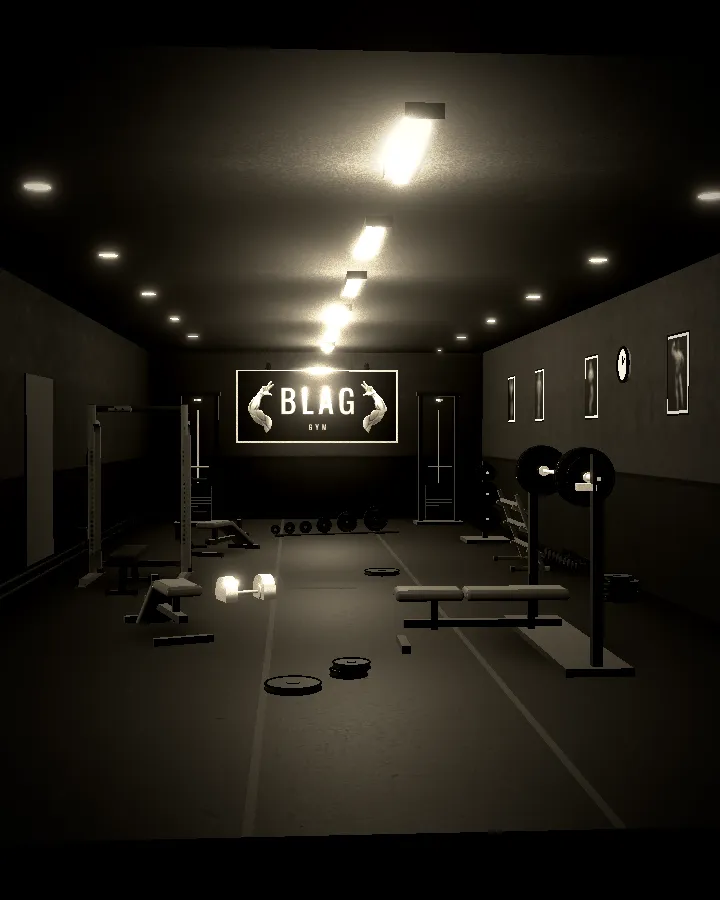
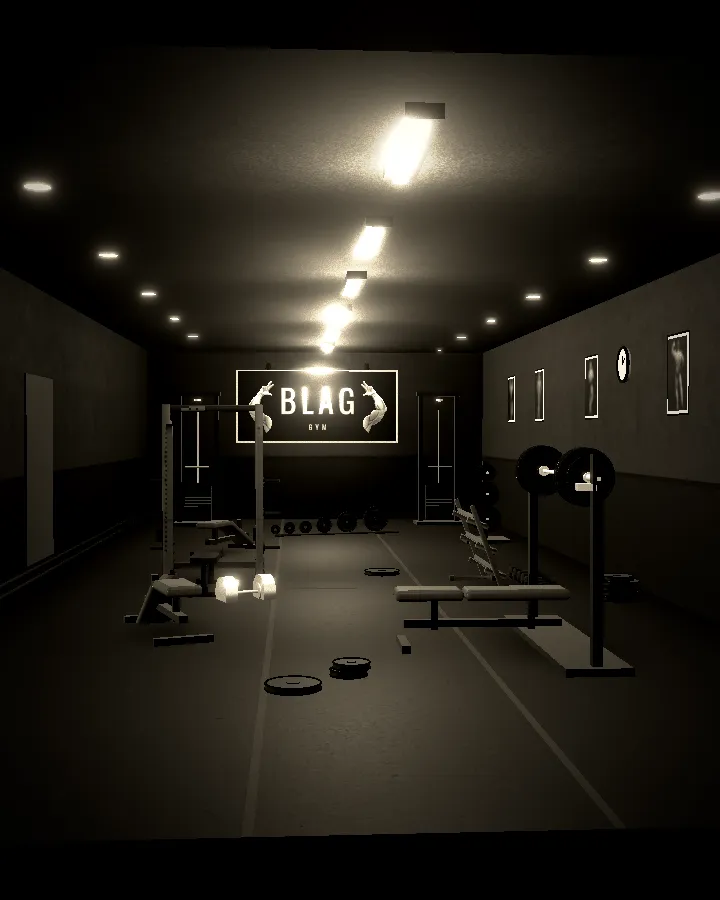
Светът: стойката и стелажът навътре — да ги хваща кадърът на телефона
На телефона (390 px) стойката за клек беше извън кадъра, а от стелажа
се виждаше само ръбът. Стойката е преместена от x −2.35 на −1.45,
стелажът — от стената (2.8, −8) пред лежанката (1.9, −6); сенките с тях.
lite-gym.webp е заснет наново.

Claude-Session: https://claude.ai/code/session_01EQMiKfBy3otTZWt7iKtyxo

diff --git a/src/svyat/Gym.jsx b/src/svyat/Gym.jsx
@@ -442,7 +442,7 @@ function PressStation({ m }) {
 
 const TEX = ['floor-diff', 'floor-nor', 'floor-rough', 'wall-nor', 'wall-rough'].map((n) => `/svyat/tex/${n}.webp`)
 
-const SHADOWS = [[1.65, -2.6, 1.4, 2.6], [-1.6, -3.4, 0.9, 1.7], [-2.35, -6.6, 1.7, 2.1], [-1.5, -9.8, 0.9, 1.6], [2.9, -8, 1, 3], [2.6, -11.2, 1.1, 1.1], [-RW + 0.4, -1.6, 0.6, 1.2]]
+const SHADOWS = [[1.65, -2.6, 1.4, 2.6], [-1.6, -3.4, 0.9, 1.7], [-1.45, -6.4, 1.7, 2.1], [-1.5, -9.8, 0.9, 1.6], [1.9, -6, 1, 1.8], [2.6, -11.2, 1.1, 1.1], [-RW + 0.4, -1.6, 0.6, 1.2]]
 
 export default function Gym() {
   const m = useMaterials()
@@ -532,7 +532,8 @@ export default function Gym() {
       {/* лявата страна: шведска стена, пейки, накрая кулиси */}
       <group position={[-RW + 0.1, 0, -1.6]}><WallBars m={m} /></group>
       <group position={[-1.6, 0, -3.4]} rotation-y={0.35}><Bench m={m} incline={0.6} /></group>
-      <group position={[-2.35, 0, -6.6]}><Model url="/svyat/models/rack.glb" scale={1.05} dim={0.25} m={m} /></group>
+      {/* стойката и стелажът са навътре: тесният кадър на телефона хваща само средата */}
+      <group position={[-1.45, 0, -6.4]}><Model url="/svyat/models/rack.glb" scale={1.05} dim={0.25} m={m} /></group>
       <group position={[-1.5, 0, -9.8]} rotation-y={-0.4}><Bench m={m} incline={0.45} /></group>
       <group position={[-2.3, 0, -14.6]}><CableTower m={m} /></group>
       <group position={[2.3, 0, -14.6]}><CableTower m={m} /></group>
@@ -541,7 +542,7 @@ export default function Gym() {
       <group position={[2.65, 0, -2.6]} rotation-y={-Math.PI / 2}><PressStation m={m} /></group>
       <group position={[2.9, 0, -5.0]}><PlatePile n={5} m={m} /></group>
       <group position={[2.85, 0, 0.6]}><PlatePile n={3} r={0.2} m={m} /></group>
-      <group position={[2.8, 0, -8.0]} rotation-y={-Math.PI / 2}><Model url="/svyat/models/dumbbells.glb" scale={0.8} m={m} /></group>
+      <group position={[1.9, 0, -6.0]} rotation-y={-Math.PI / 2}><Model url="/svyat/models/dumbbells.glb" scale={0.8} m={m} /></group>
       <group position={[0.2, 0, -12.6]} rotation-y={0.25}><Model url="/svyat/models/barbell.glb" scale={1.1} m={m} /></group>
       <group position={[2.6, 0, -11.2]}><PlateTree m={m} /></group>
 
